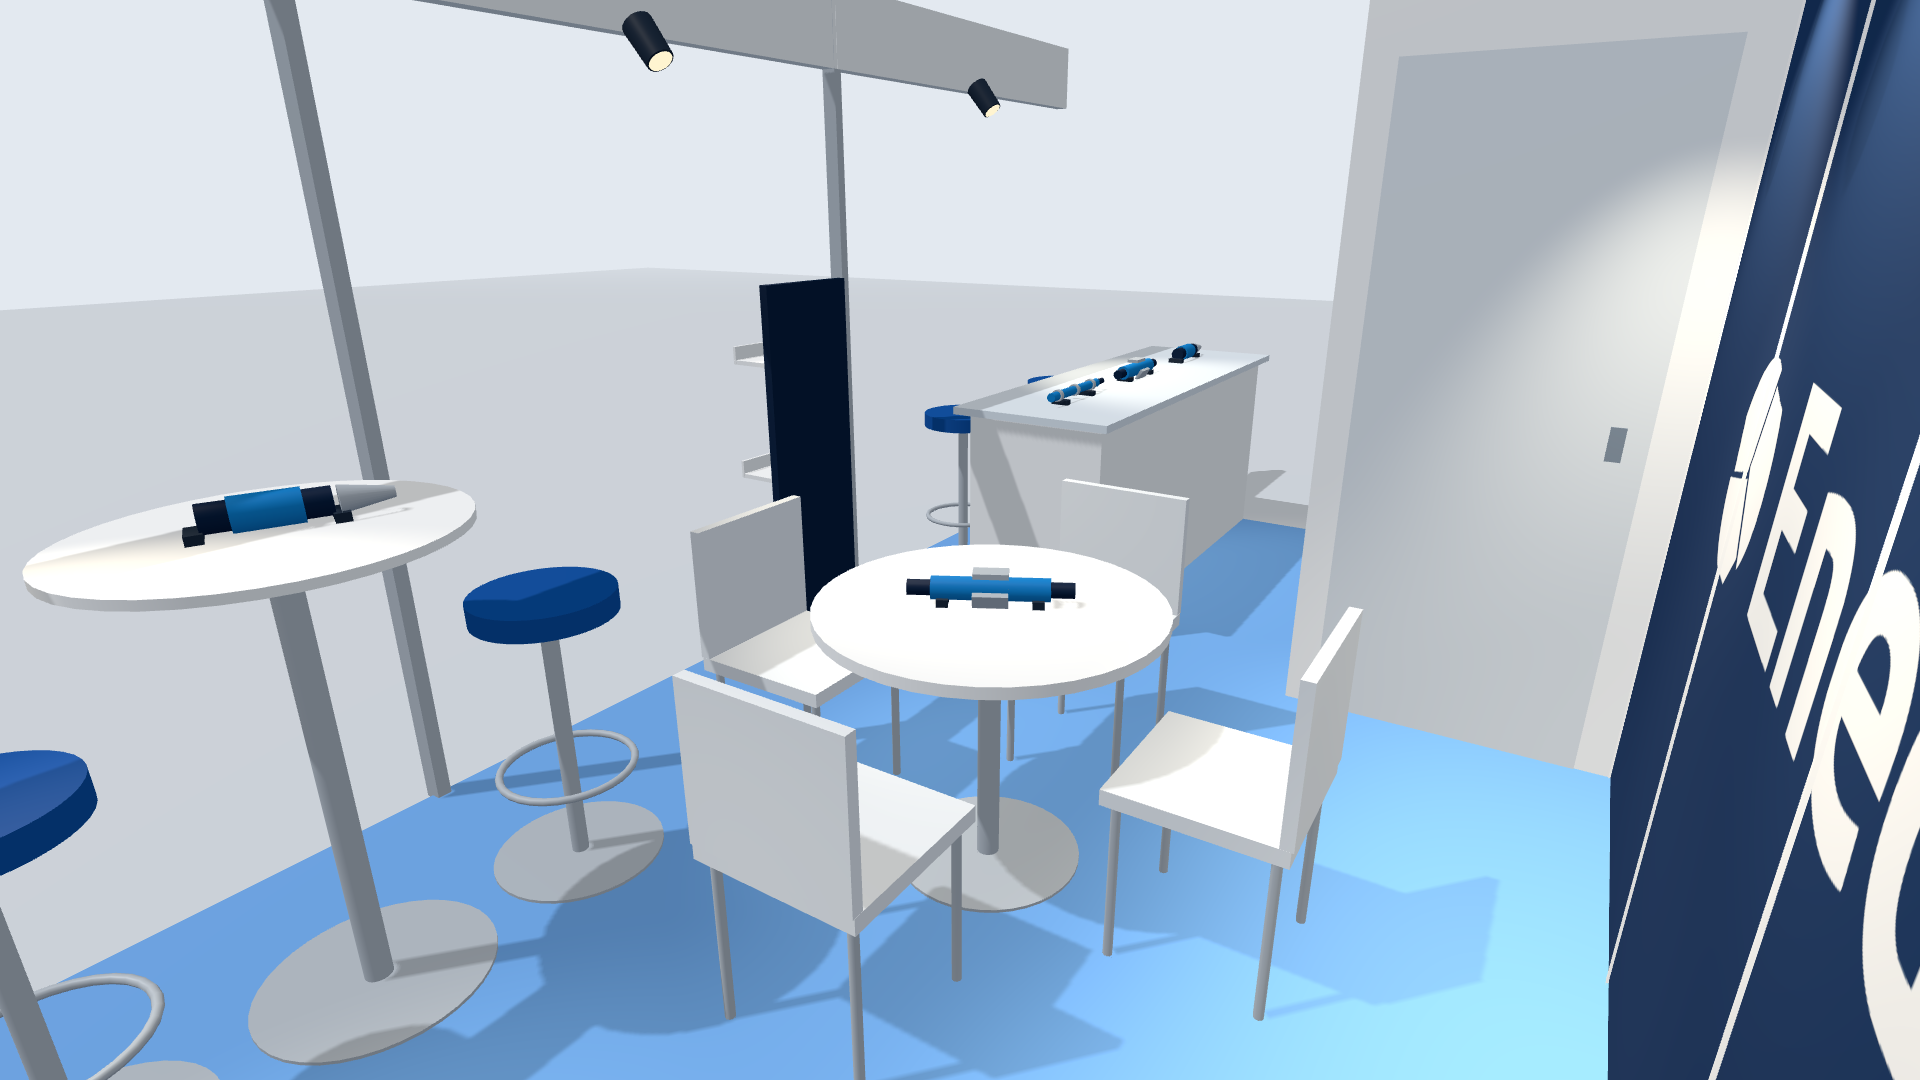
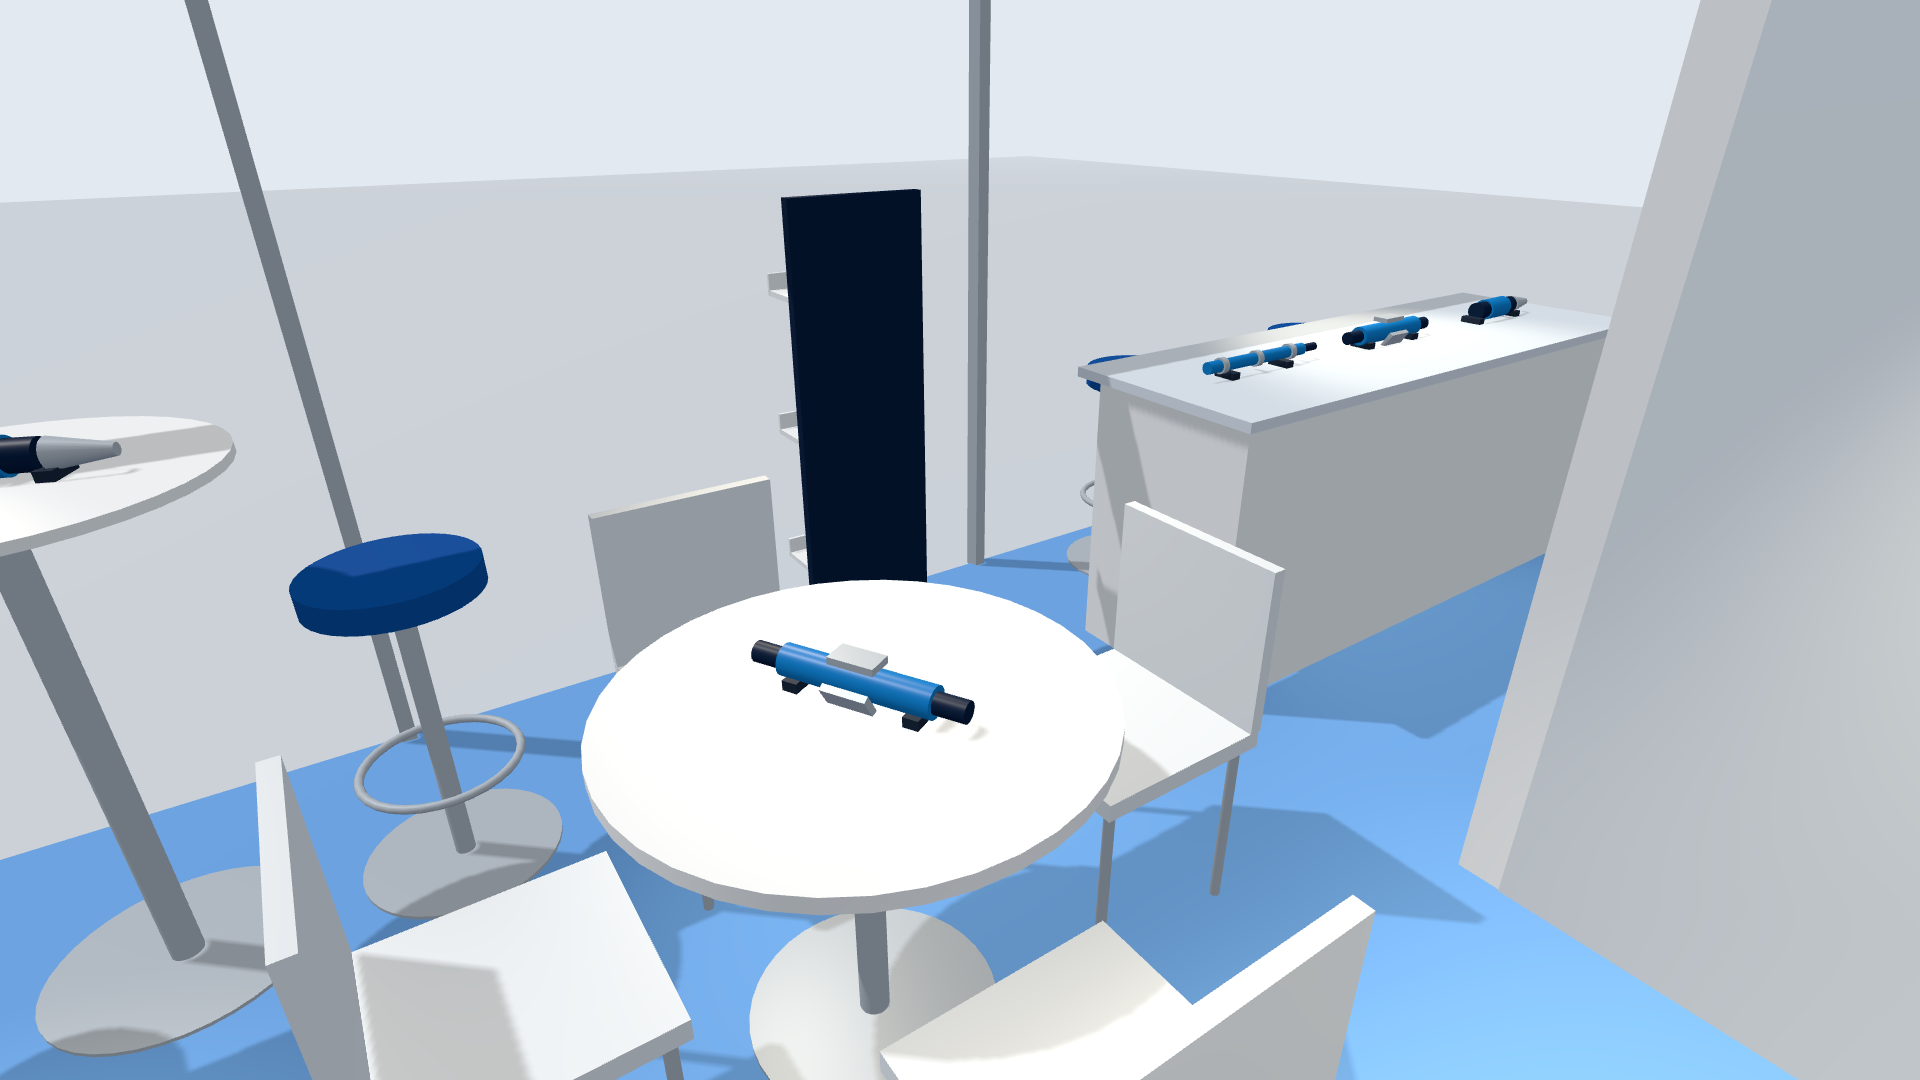
Stand 274: espace co-exposant Fixndril dans la scene 3D, 14 vues 3D regenerees
Claude-Session: https://claude.ai/code/session_01XPwnZBmWUGhvYebrP3X3Z2

diff --git a/stand-geotherm-2027/00_Plan_et_3D/source_3D/textures_fixndril.html b/stand-geotherm-2027/00_Plan_et_3D/source_3D/textures_fixndril.html
@@ -1,0 +1,21 @@
+<!doctype html><meta charset=utf-8><style>
+@font-face{font-family:BC;src:url('file:///home/user/Paul/voeux_2027/polices/BarlowCondensed-Bold.ttf');font-weight:700}
+@font-face{font-family:BC;src:url('file:///home/user/Paul/voeux_2027/polices/BarlowCondensed-Medium.ttf');font-weight:500}
+@font-face{font-family:B;src:url('file:///home/user/Paul/voeux_2027/polices/Barlow-Medium.ttf');font-weight:500}
+*{margin:0;box-sizing:border-box}body{background:transparent}
+#wall{width:1250px;height:2000px;background:linear-gradient(180deg,#2E3B4C,#1B2531);color:#fff;position:relative;overflow:hidden}
+#wall .stripe{position:absolute;left:0;top:0;bottom:0;width:26px;background:#E8A317}
+#wall .name{position:absolute;left:100px;top:640px;font:700 232px/0.9 BC;letter-spacing:.005em;white-space:nowrap}
+#wall .name span{color:#E8A317}
+#wall .sub{position:absolute;left:106px;top:880px;font:500 56px/1.3 B;letter-spacing:.18em;color:#C9D3DF;text-transform:uppercase}
+#wall .co{position:absolute;left:116px;top:1500px;font:500 44px/1.4 B;letter-spacing:.12em;color:#9FB0C3}
+#wall .co b{display:block;color:#fff;font:700 74px/1.2 BC;letter-spacing:.06em}
+#front{width:1000px;height:900px;background:#F6F8FA;position:relative;overflow:hidden}
+#front .band{position:absolute;left:0;right:0;bottom:0;height:150px;background:#2B3644}
+#front .name{position:absolute;left:70px;top:230px;font:700 220px/0.9 BC;color:#2B3644}
+#front .name span{color:#E8A317}
+#front .sub{position:absolute;left:76px;top:470px;font:500 42px B;letter-spacing:.2em;color:#51647A;text-transform:uppercase}
+#front .co{position:absolute;left:76px;bottom:48px;font:500 40px B;letter-spacing:.16em;color:#fff;text-transform:uppercase}
+</style>
+<div id=wall><div class=stripe></div><div class=name>FIX<span>N</span>DRIL</div><div class=sub>Fishing · Drilling</div><div class=co><b>CO-EXPOSANT</b>Stand 274 · avec Enedril</div></div>
+<div id=front><div class=name>FIX<span>N</span>DRIL</div><div class=sub>Fishing · Drilling</div><div class=band></div><div class=co>Co-exposant · Stand 274</div></div>

diff --git a/stand-geotherm-2027/00_Plan_et_3D/source_3D/stand3d.html b/stand-geotherm-2027/00_Plan_et_3D/source_3D/stand3d.html
@@ -89,6 +89,14 @@ function spotFx(x,y,z,tx,ty,tz,inten,ang){const g=new THREE.Group();
  const L=new THREE.SpotLight(0xFFF1D6,inten,9,ang,.6,1.6);L.position.copy(V(x,y,z));L.target.position.copy(V(tx,ty,tz));sc.add(L,L.target);}
 [.5,1.5,2.5,3.5].forEach(y=>{box(2.72,3.0,y-.01,y+.01,2.46,2.5,CHROME);spotFx(2.72,y,2.43,3.0,y,1.3,7,.7);});
 [1.0,3.0,5.0].forEach(y=>spotFx(.1,y,2.17,1.3,y,.7,4,.5));
+
+// ---- espace FIXNDRIL (co-exposant) : angle sud-est contre le mur du fond, ~1 x 1,5 m
+box(1.95,3,.32,1.78,.012,.02,std(0x59687B,.95));box(1.95,1.97,.32,1.78,.02,.026,CHROME);box(1.95,3,1.76,1.78,.02,.026,CHROME);box(1.95,3,.32,.34,.02,.026,CHROME);
+box(2.97,3.0,.4,1.7,.1,2.3,std(0x1B2531,.5));face(tex('fx_wall'),'W',2.969,1.05,1.2,1.3,2.0);
+box(2.3,2.75,.55,1.55,0,.9,WHITE);box(2.27,2.78,.52,1.58,.9,.93,std(0xDDE6EF,.35));
+face(tex('fx_front'),'W',2.299,1.05,.45,1.0,.9);
+tool('cutter',2.55,1.05,.93,0);tool('mwd',2.55,.8,.93,0);
+stool(2.1,1.68);
 // ---- lumières
 sc.add(new THREE.HemisphereLight(0xFFFFFF,0x9AA6B5,1.7));
 const dl=new THREE.DirectionalLight(0xFFFFFF,1.4);dl.position.copy(V(-3,-2,10));dl.target.position.copy(V(1.5,3,0));sc.add(dl,dl.target);
@@ -103,10 +111,12 @@ const CAMS={
  nord:[[0.6,10.2,2.4],[1.5,3.0,1.0],48],
  bar:[[-2.2,3.2,1.45],[0.8,5.1,.8],52],
  mange_debout:[[-2.0,0.2,1.5],[0.7,1.6,.9],50],
- reunion:[[2.7,0.7,1.7],[1.3,2.9,.8],58],
+ reunion:[[2.8,2.0,1.7],[1.2,3.1,.8],58],
  rangement:[[-3.0,2.2,1.6],[2.2,5,1.3],50],
  presentoir:[[-1.8,2.0,1.4],[.4,3.3,.8],50],
- interieur:[[2.2,1.0,1.7],[0.3,4.2,.8],62],
+ interieur:[[2.3,1.95,1.7],[0.3,4.3,.8],62],
+ fixndril:[[-0.9,0.7,1.45],[2.6,1.0,1.0],50],
+ fixndril_nord:[[1.0,3.5,1.6],[2.7,1.0,1.0],55],
 };
 let cam;
 if(VIEW=='plan'){dl.castShadow=false;const a=7.4;cam=new THREE.OrthographicCamera(-a*16/9/2,a*16/9/2,a/2,-a/2,.1,60);cam.position.copy(V(1.5,3,20));cam.up.set(0,0,-1);cam.lookAt(V(1.5,3,0));}
